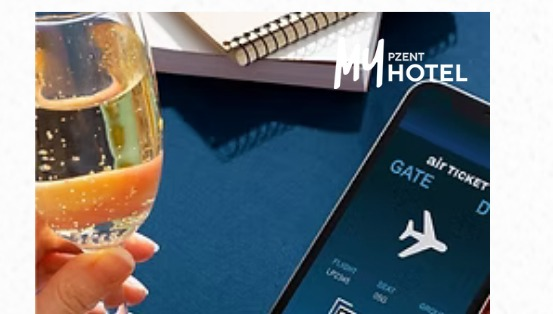
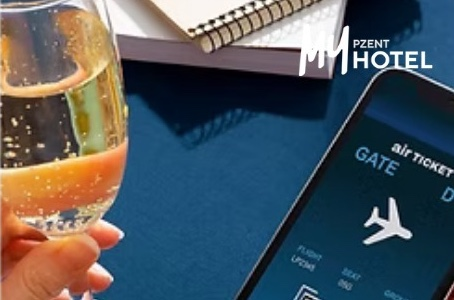
Archive: an image for every piece, from the studio's own work
Founder's request: images that fit each piece, and thumbnails.

Every image comes from ORIONS' own work — a case-study image or a frame from
the /work photography and art-direction boards — never stock, which the design
system forbids. Where a piece discusses a client, it shows that client's work
(Democrat, HONG MOVE, HEAVY ORGANIZER, My Hotel, Khao Yai, Movement Party,
GCOO, RTAF); the rest take the frame that says what the piece says (the Netflix
อนาคต key visual for "Aesthetic is a decision", a single BOOM Collagen+ frame
from a many-piece campaign for "One story. Many expressions."). Each carries a
credit naming its project. The social boards were skipped: some frames bear
another studio's credit and could not be confirmed as ORIONS' own.

- /archive is a grid of cards with 4:3 thumbnails (3 columns, 2 on tablet,
  1 on phone), in the same grayscale treatment as the work cards.
- An article opens on its image at 3:2 with the credit beneath, and that image
  is now its share card and its Article schema image.
- Sources under 900px (My Hotel, Movement Party, RTAF: 450–550px) render at
  520px instead of stretching to the reading measure, where they went soft.
- My Hotel and Movement Party were screenshots with white margins baked in;
  cropped to the photo. Per-piece focus points keep faces and logos in frame.

A test now fails if an archive image is not from the work or has no credit —
proven by pointing a piece at a stock asset.
[…]

diff --git a/src/data/archive.ts b/src/data/archive.ts
@@ -1,4 +1,5 @@
-/** The Archive — twelve short pieces, three per layer of the blueprint.
+/** The Archive — twelve short pieces, three per layer of the blueprint, each
+ *  with an image from the studio's own work that matches what it says.
  *
  *  Voice: observational, precise, human, unexpected. No buzzwords. Any client
  *  named here is quoted only from what src/data/caseStudies.ts already records;
@@ -10,6 +11,20 @@
  *  Body format: one string per paragraph. A paragraph that starts with "> "
  *  renders as a pull line. */
 
+import type { PictureData } from "@/components/Picture";
+import democrat from "@/assets/democrat.jpg?as=picture";
+import tearInTheBrain from "@/assets/work/artdir/artdir-11.jpg?as=picture";
+import hongmove from "@/assets/hongmove.jpg?as=picture";
+import couple from "@/assets/work/photography/13.jpg?as=picture";
+import festivalCrowd from "@/assets/concert-crowd.jpg?as=picture";
+import anatta from "@/assets/work/artdir/artdir-03.jpg?as=picture";
+import myHotel from "@/assets/work-myhotel.jpg?as=picture";
+import khaoYai from "@/assets/golf-lifestyle.jpg?as=picture";
+import movementParty from "@/assets/work-palawat.jpg?as=picture";
+import gcoo from "@/assets/gcoo.jpg?as=picture";
+import airForce from "@/assets/work/photography/16.jpg?as=picture";
+import boom from "@/assets/work/photography/03.jpg?as=picture";
+
 export type ArchiveTheme = "Point of View" | "Brand Idea" | "Method" | "Signature Approaches";
 
 export type ArchivePiece = {
@@ -18,6 +33,13 @@ export type ArchivePiece = {
   theme: ArchiveTheme;
   title: string;
   dek: string;
+  /** From ORIONS' own work only — the case files or the /work boards — never
+   *  stock. The credit names the project so no image implies a client it
+   *  does not come from. */
+  image: PictureData;
+  credit: string;
+  /** object-position for the 3:2 and 4:3 crops */
+  focus: string;
   body: string[];
 };
 
@@ -28,6 +50,9 @@ export const archive: ArchivePiece[] = [
     theme: "Point of View",
     title: "More isn't the answer.",
     dek: "ทำไมแบรนด์ที่พูดเยอะที่สุด มักถูกจำได้น้อยที่สุด",
+    image: democrat,
+    credit: "Democrat Party — กิจกรรมที่สื่อสารจุดยืนในกรอบที่กฎหมายอนุญาต",
+    focus: "center",
     body: [
       "ลองนึกถึงแบรนด์ที่คุณจำได้จริง ๆ สักสามแบรนด์ แล้วถามตัวเองว่าจำได้เพราะอะไร แทบไม่มีใครตอบว่า เพราะเขาโพสต์ทุกวัน",
       "ความถี่เคยเป็นข้อได้เปรียบ ในวันที่พื้นที่ยังมีน้อยและการพูดยังมีต้นทุนสูง แต่วันนี้ทุกแบรนด์ผลิต content ได้แทบไม่จำกัด เมื่อทุกคนพูดได้เท่ากัน การพูดมากขึ้นจึงไม่ได้ทำให้ถูกได้ยินมากขึ้น มันแค่ทำให้เสียงของเรากลืนไปกับเสียงรอบข้างเร็วขึ้น",
@@ -45,6 +70,9 @@ export const archive: ArchivePiece[] = [
     theme: "Point of View",
     title: "The cost of one more post",
     dek: "content ที่ไม่มีเหตุผลรองรับ ค่อย ๆ กัดกร่อนตัวตนของแบรนด์อย่างเงียบ ๆ",
+    image: tearInTheBrain,
+    credit: "ปกเพลง — งาน art direction โดย ORIONS",
+    focus: "center 40%",
     body: [
       "ไม่มีโพสต์ไหนทำลายแบรนด์ได้ในครั้งเดียว นั่นคือเหตุผลที่มันอันตราย",
       "ชิ้นงานที่ทำเพราะถึงรอบต้องลง มีต้นทุนที่ไม่เคยปรากฏในใบเสนอราคา และต้นทุนนั้นจ่ายเป็นงวด ๆ จนไม่มีใครสังเกต",
@@ -62,6 +90,9 @@ export const archive: ArchivePiece[] = [
     theme: "Point of View",
     title: "Refinement is not polish.",
     dek: "ทำให้สวย กับทำให้คม ต่างกันตรงไหน",
+    image: hongmove,
+    credit: "HONG MOVE — แท็กซี่ VIP EV ในสนามบิน",
+    focus: "center 60%",
     body: [
       "เวลาคนได้ยินคำว่า refine มักนึกถึงขั้นตอนสุดท้ายก่อนส่งงาน ปรับสีอีกนิด เกลาคำอีกหน่อย ขยับระยะให้ลงตัว",
       "นั่นคือ polish และ polish มีค่า แต่มันทำงานกับผิวของงาน ส่วน refine ทำงานกับแก่นของมัน",
@@ -78,6 +109,9 @@ export const archive: ArchivePiece[] = [
     theme: "Brand Idea",
     title: "A story is what people come to understand",
     dek: "เรื่องของแบรนด์ไม่ได้อยู่ใน tagline",
+    image: couple,
+    credit: "งานถ่ายภาพโดย ORIONS",
+    focus: "center 8%",
     body: [
       "แบรนด์ส่วนใหญ่คิดว่าเรื่องของตัวเองคือสิ่งที่เขียนไว้ใน brand book ย่อหน้าที่ถูกแก้มาสิบรอบ tagline ที่ผ่านการโหวต",
       "แต่เรื่องที่คนจำได้ไม่ใช่สิ่งที่แบรนด์พูด มันคือสิ่งที่คนสรุปได้เอง หลังจากเจอแบรนด์หลายครั้งในหลายที่",
@@ -94,6 +128,9 @@ export const archive: ArchivePiece[] = [
     theme: "Brand Idea",
     title: "Behavior is the brand",
     dek: "สิ่งที่แบรนด์ทำ ดังกว่าสิ่งที่แบรนด์พูด",
+    image: festivalCrowd,
+    credit: "HEAVY ORGANIZER — ผู้ชมในเทศกาลดนตรี",
+    focus: "center",
     body: [
       "โฆษณาบอกว่าใส่ใจลูกค้า แต่สายด่วนให้รอยี่สิบนาที คนจะเชื่ออย่างไหน",
       "Behavior คือส่วนของแบรนด์ที่แทบไม่มีใครออกแบบอย่างตั้งใจ นโยบายคืนสินค้า น้ำเสียงในการตอบ comment ความเร็วในการแก้ปัญหา สิ่งเหล่านี้มักถูกตัดสินโดยฝ่ายปฏิบัติการ ไม่ใช่ทีมแบรนด์ แต่คนดูไม่ได้แยกว่าใครเป็นคนตัดสิน เขาเห็นแค่ว่าแบรนด์นี้ทำตัวแบบนี้",
@@ -109,6 +146,9 @@ export const archive: ArchivePiece[] = [
     theme: "Brand Idea",
     title: "Aesthetic is a decision, not a style",
     dek: "รสนิยมคือการเลือก ไม่ใช่การตกแต่ง",
+    image: anatta,
+    credit: "อนาคต (Netflix) — key visual, art direction",
+    focus: "center 45%",
     body: [
       "หลายโปรเจกต์เริ่มจากภาพ reference ชุดหนึ่ง พร้อมประโยคว่า อยากได้แบบนี้",
       "สิ่งที่อยู่ในภาพเหล่านั้นคือ style ผลลัพธ์ที่มองเห็นได้ ส่วน aesthetic คือเหตุผลที่อยู่ข้างหลังมัน ทำไมสีนี้ ทำไมพื้นที่ว่างเท่านี้ ทำไมตัวอักษรหนักแค่นี้",
@@ -124,6 +164,9 @@ export const archive: ArchivePiece[] = [
     theme: "Method",
     title: "See what others overlook",
     dek: "งานเริ่มก่อน brief จะมาถึง",
+    image: myHotel,
+    credit: "My Hotel — แพลตฟอร์มจองโรงแรม",
+    focus: "85% center",
     body: [
       "Brief ส่วนใหญ่มาพร้อมคำตอบอยู่แล้ว อยากได้แคมเปญ อยากได้เว็บใหม่ อยากได้วิดีโอเปิดตัว",
       "Observe คือขั้นแรกของวิธีทำงานของเรา และเป็นขั้นที่เราถามว่าโจทย์จริงคืออะไร ก่อนจะรีบตอบโจทย์ที่ถูกส่งมา",
@@ -140,6 +183,9 @@ export const archive: ArchivePiece[] = [
     theme: "Method",
     title: "Same product, a different reason to care",
     dek: "บางครั้งไม่ต้องเปลี่ยนสินค้า แค่เปลี่ยนกรอบที่ใช้มองมัน",
+    image: khaoYai,
+    credit: "Khao Yai Country Club — leisure golf",
+    focus: "center 60%",
     body: [
       "เมื่อยอดขายไม่ขยับ ปฏิกิริยาแรกมักเป็นการแก้ตัวสินค้า เปลี่ยนแพ็กเกจ เพิ่มฟีเจอร์ ลดราคา",
       "บางครั้งตัวสินค้าไม่ได้มีปัญหา ปัญหาคือเรายังมองมันผ่านกรอบเดิม และกรอบเดิมนั้นมีความหมายกับคนกลุ่มเดิมเท่านั้น",
@@ -155,6 +201,9 @@ export const archive: ArchivePiece[] = [
     theme: "Method",
     title: "Turning meaning into form",
     dek: "จากความหมาย ไปเป็นภาพ คำ และประสบการณ์",
+    image: movementParty,
+    credit: "Movement Party — การเปิดตัวพรรค",
+    focus: "center 35%",
     body: [
       "ทุกโปรเจกต์มีช่วงหนึ่งที่ทุกคนเห็นด้วยกับไอเดีย แต่ยังไม่มีใครเห็นมันจริง ๆ",
       "Shape คือการแปลความหมายที่ยังเป็นนามธรรม ให้กลายเป็นสิ่งที่จับต้องได้ คำไหน สีอะไร จังหวะแบบไหน ภาพควรเงียบหรือควรดัง",
@@ -170,6 +219,9 @@ export const archive: ArchivePiece[] = [
     theme: "Signature Approaches",
     title: "What haven't we seen yet?",
     dek: "Creative Unlock — การหา S-curve ใหม่ เริ่มจากสิ่งที่แบรนด์มีอยู่แล้ว",
+    image: gcoo,
+    credit: "GCOO — การเปิดตลาดไทย",
+    focus: "center 45%",
     body: [
       "เมื่อ growth เริ่มชะลอ คำตอบแรกมักคือทำเพิ่ม เพิ่มงบ เพิ่มช่องทาง เพิ่มแคมเปญ",
       "Creative Unlock เริ่มจากคำถามอีกแบบ อะไรที่เรายังไม่เคยเห็น ทั้งที่มันอยู่ในมือแบรนด์มาตลอด",
@@ -185,6 +237,9 @@ export const archive: ArchivePiece[] = [
     theme: "Signature Approaches",
     title: "Identity should be embedded, not applied",
     dek: "Stories Embed — ตัวตนที่แท้จริงไม่ได้อยู่ใน logo",
+    image: airForce,
+    credit: "Royal Thai Air Force",
+    focus: "center",
     body: [
       "มีแบรนด์จำนวนมากที่ผ่าน brand guideline ครบทุกข้อ logo ถูกที่ สีถูกค่า ฟอนต์ถูกน้ำหนัก แต่พอเอาทุกจุดสัมผัสมาวางเรียงกัน กลับไม่รู้สึกว่าเป็นแบรนด์เดียวกัน",
       "นั่นคือตัวตนแบบ applied แปะไว้ด้านนอก ถูกต้องทุกจุด แต่ไม่ได้อยู่ข้างใน",
@@ -200,6 +255,9 @@ export const archive: ArchivePiece[] = [
     theme: "Signature Approaches",
     title: "One story. Many expressions.",
     dek: "ความสม่ำเสมอ ไม่ได้แปลว่าทุกอย่างต้องเหมือนกัน",
+    image: boom,
+    credit: "BOOM Collagen+ — หนึ่งแคมเปญ หลายชิ้นงาน",
+    focus: "center 55%",
     body: [
       "Brand consistency มักถูกเข้าใจว่าเป็นการทำให้ทุกอย่างหน้าตาเหมือนกัน template เดียวกัน โทนเดียวกัน ประโยคปิดเดียวกัน",
       "แต่คนคนหนึ่งพูดกับเพื่อนไม่เหมือนพูดในที่ประชุม เขียนข้อความถึงแม่ไม่เหมือนเขียนอีเมลงาน แล้วเราก็ยังรู้ว่าเป็นคนเดิม สิ่งที่คงที่ไม่ใช่รูปแบบ มันคือมุมมอง",

diff --git a/src/pages/Archive.tsx b/src/pages/Archive.tsx
@@ -1,11 +1,12 @@
 import { Link } from "@tanstack/react-router";
-import { ArrowUpRight } from "lucide-react";
 import Reveal from "@/components/Reveal";
 import SEO from "@/components/SEO";
 import SectionLabel from "@/components/SectionLabel";
+import Picture from "@/components/Picture";
 import { archive } from "@/data/archive";
 
-/** One numbered list — no cover images, no dates, no categories. */
+/** Twelve numbered pieces, each with a thumbnail from the studio's own work.
+ *  No dates, no categories. */
 const Archive = () => (
   <div>
     <SEO
@@ -24,21 +25,23 @@ const Archive = () => (
     </section>
 
     <section className="px-6 md:px-10 border-t border-foreground/15">
-      <div className="max-w-[1280px] mx-auto py-14 md:py-20">
-        <div className="border-t border-foreground/15">
-          {archive.map((piece) => (
-            <Link
-              key={piece.slug}
-              to="/archive/$slug" params={{ slug: piece.slug }}
-              className="group grid grid-cols-[44px_1fr_20px] md:grid-cols-[80px_1fr_1fr_24px] items-baseline gap-4 md:gap-10 py-7 border-b border-foreground/15"
-            >
-              <span className="font-mono text-[11px] text-muted-foreground">{piece.n}</span>
-              <span className="font-display text-[21px] md:text-[25px] leading-[1.15] group-hover:opacity-80 transition-opacity">{piece.title}</span>
-              <span lang="th" className="col-start-2 md:col-start-auto font-thai text-[14px] md:text-[15px] leading-[1.7] text-muted-foreground">{piece.dek}</span>
-              <ArrowUpRight className="hidden md:block w-4 h-4 text-foreground/40 group-hover:text-foreground transition-colors" />
-            </Link>
-          ))}
-        </div>
+      <div className="max-w-[1280px] mx-auto py-14 md:py-20 grid grid-cols-1 sm:grid-cols-2 lg:grid-cols-3 gap-x-6 lg:gap-x-8 gap-y-14">
+        {archive.map((piece) => (
+          <Link key={piece.slug} to="/archive/$slug" params={{ slug: piece.slug }} className="group block">
+            <div className="film-frame aspect-[4/3] bg-surface-2">
+              <Picture
+                data={piece.image}
+                alt={piece.credit}
+                loading="lazy"
+                style={{ objectPosition: piece.focus }}
+                className="w-full h-full object-cover grayscale-[0.3] saturate-[0.85] transition-[transform,filter] duration-700 group-hover:scale-[1.03] group-hover:grayscale-0"
+              />
+            </div>
+            <span className="mt-5 block font-mono text-[10px] tracking-[0.2em] uppercase text-muted-foreground">No. {piece.n}</span>
+            <span className="mt-2 block font-display text-[21px] md:text-[23px] leading-[1.15] group-hover:opacity-80 transition-opacity">{piece.title}</span>
+            <span lang="th" className="mt-3 block font-thai text-[14px] leading-[1.7] text-muted-foreground">{piece.dek}</span>
+          </Link>
+        ))}
       </div>
     </section>
   </div>

diff --git a/src/pages/ArchivePost.tsx b/src/pages/ArchivePost.tsx
@@ -3,6 +3,7 @@ import { ArrowLeft, ArrowUpRight } from "lucide-react";
 import Reveal from "@/components/Reveal";
 import SEO from "@/components/SEO";
 import SectionLabel from "@/components/SectionLabel";
+import Picture from "@/components/Picture";
 import { archive, getAdjacentPieces, getPiece } from "@/data/archive";
 
 const SITE_URL = "https://orions.agency";
@@ -25,6 +26,7 @@ const ArchivePost = () => {
       "@type": "Article",
       headline: piece.title,
       description: piece.dek,
+      image: `${SITE_URL}${piece.image.img.src}`,
       articleSection: piece.theme,
       inLanguage: "th",
       author: { "@type": "Organization", name: "ORIONS", url: SITE_URL },
@@ -43,7 +45,7 @@ const ArchivePost = () => {
 
   return (
     <div>
-      <SEO title={`${piece.title} — Archive · ORIONS`} description={piece.dek} path={`/archive/${piece.slug}`} ogType="article" schema={schema} />
+      <SEO title={`${piece.title} — Archive · ORIONS`} description={piece.dek} path={`/archive/${piece.slug}`} image={piece.image.img.src} ogType="article" schema={schema} />
 
       <article className="px-6 md:px-10">
         <div className="max-w-[760px] mx-auto pt-28 md:pt-36 pb-20 md:pb-28">
@@ -57,6 +59,23 @@ const ArchivePost = () => {
             <h1 className="mt-8 h-display-md">{piece.title}</h1>
           </Reveal>
           <p lang="th" className="mt-6 font-thai thai-wrap text-[18px] md:text-[21px] leading-[1.7] text-foreground/75">{piece.dek}</p>
+
+          {/* Never wider than the source can hold: three frames (My Hotel,
+              Movement Party, RTAF) are only ~450–550px wide and go soft when
+              stretched to the full reading measure, so they sit narrower. */}
+          <figure className={`mt-12 ${piece.image.img.w < 900 ? "max-w-[520px]" : ""}`}>
+            <div className="film-frame aspect-[3/2] bg-surface-2">
+              <Picture
+                data={piece.image}
+                alt={piece.credit}
+                loading="eager"
+                fetchPriority="high"
+                style={{ objectPosition: piece.focus }}
+                className="w-full h-full object-cover grayscale-[0.3] saturate-[0.85]"
+              />
+            </div>
+            <figcaption lang="th" className="mt-3 font-thai text-[13px] leading-[1.6] text-muted-foreground">{piece.credit}</figcaption>
+          </figure>
 
           <div className="mt-14 pt-10 border-t border-foreground/15 flex flex-col gap-7">
             {piece.body.map((para, i) =>

diff --git a/src/test/content-contracts.test.ts b/src/test/content-contracts.test.ts
@@ -149,6 +149,21 @@ describe("archive", () => {
     archive.forEach((p) => expect(p.body.length, p.slug).toBeGreaterThanOrEqual(5));
   });
 
+  /** Every image is the studio's own work — a file the case studies already
+   *  import, or one from the /work photography and art-direction boards —
+   *  never stock, and every image carries a credit naming its project. */
+  it("illustrates every piece with credited images from the studio's own work", () => {
+    const own = new Set(Array.from(fromRoot("src/data/caseStudies.ts").matchAll(/from "(@\/assets\/[^"?]+)/g), (m) => m[1]));
+    const boards = /^@\/assets\/work\/(photography|artdir)\/[^/]+\.jpg$/;
+    const used = Array.from(fromRoot("src/data/archive.ts").matchAll(/from "(@\/assets\/[^"?]+)/g), (m) => m[1]);
+    expect(used.length).toBeGreaterThan(0);
+    used.forEach((path) => expect(own.has(path) || boards.test(path), `${path} is not from the work`).toBe(true));
+    archive.forEach((p) => {
+      expect(p.image, p.slug).toBeTruthy();
+      expect(p.credit.length, p.slug).toBeGreaterThan(0);
+    });
+  });
+
   /** From the brand book. Guards the essays and every page they sit beside. */
   it("never uses the banned words", () => {
     const banned = ["Revolutionary", "Game-changing", "One-stop solution", "ครบวงจร", "ยกระดับธุรกิจของคุณ", "ปลดล็อกศักยภาพ", "เหนือระดับ", "ตอบโจทย์ทุกความต้องการ"];
